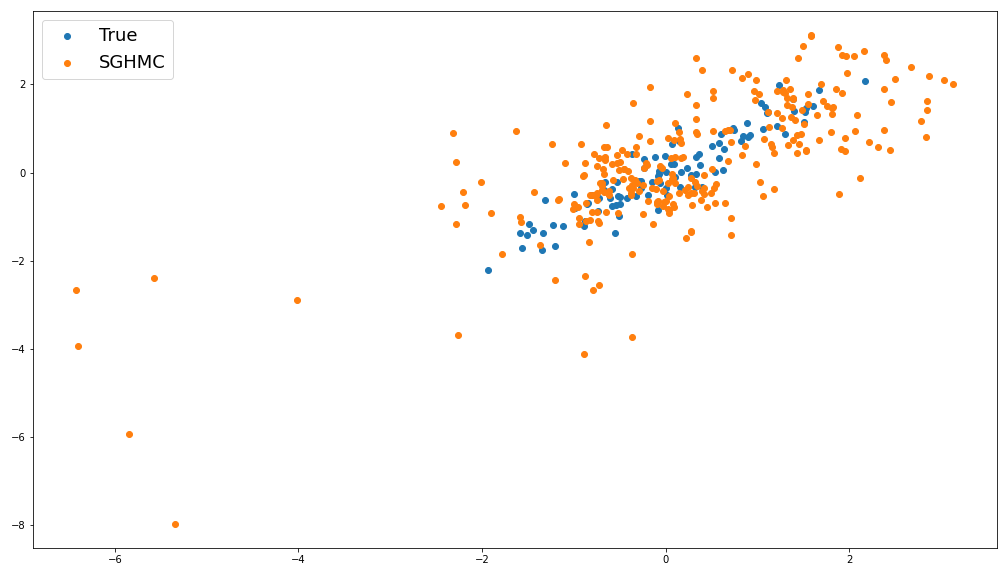
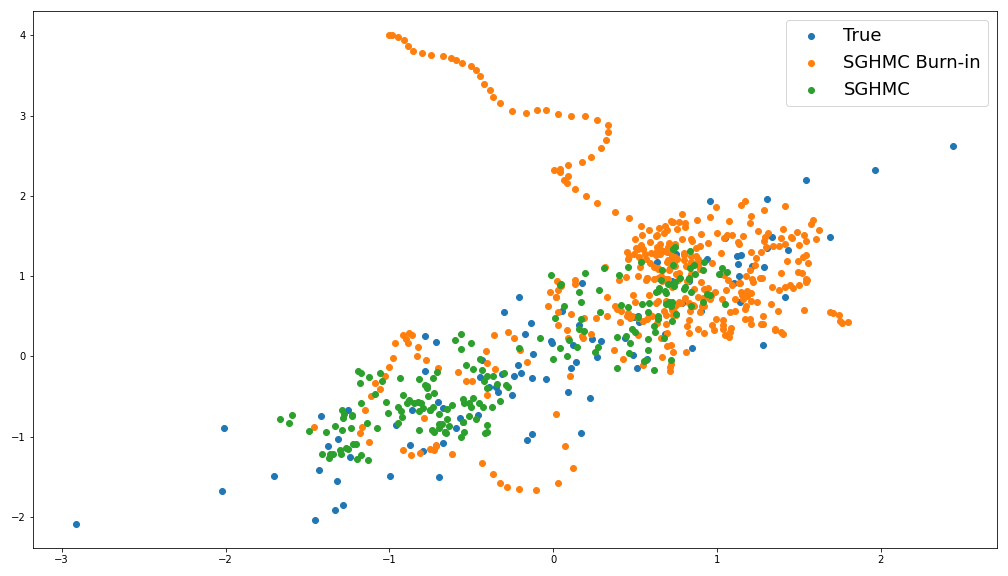
Added adaptive SGHMC

diff --git a/code/adaptive_sghmc.py b/code/adaptive_sghmc.py
@@ -1,0 +1,146 @@
+import tensorflow as tf
+from tensorflow.python.training import training_ops
+
+
+class AdaptiveSGHMC(tf.optimizers.Optimizer):
+    """
+    In this implementation we assume that the scaled gradient noise variance
+    (beta_hat in the original paper) is set to 0.
+    """
+
+    def __init__(self,
+                 learning_rate,
+                 burnin,
+                 data_size=1,
+                 momentum_decay=0.01,
+                 name="AdaptiveSGHMC",
+                 **kwargs):
+
+        with tf.name_scope(name):
+            self._learning_rate = tf.convert_to_tensor(learning_rate, name="learning_rate")
+            self._burnin = tf.convert_to_tensor(burnin, name="burnin", dtype=tf.int64)
+            self._data_size = tf.convert_to_tensor(data_size, name="data_size", dtype=tf.int64)
+            self._momentum_decay = tf.convert_to_tensor(momentum_decay, name="momentum_decay", )
+
+            self._friction = tf.Variable(0., name="friction")
+
+            super().__init__(name=name, **kwargs)
+
+    def get_config(self):
+        pass
+
+    def _create_slots(self, var_list):
+        for var in var_list:
+            self.add_slot(var, "momentum")
+
+            # V_hat
+            self.add_slot(var, "squared_grad_magnitude", initializer="ones")
+
+            # g
+            self.add_slot(var, "smoothed_gradient", initializer="ones")
+
+            # tau
+            self.add_slot(var, "exponential_average_coeff", initializer="ones")
+
+    def _resource_apply_dense(self, grad, var, apply_state=None):
+
+        momentum = self.get_slot(var, "momentum")
+        squared_grad_magnitude = self.get_slot(var, "squared_grad_magnitude")
+        smoothed_gradient = self.get_slot(var, "smoothed_gradient")
+        exponential_average_coeff = self.get_slot(var, "exponential_average_coeff")
+
+        return self._sghmc_step(grad=grad,
+                                variable=var,
+                                momentum=momentum,
+                                squared_grad_magnitude=squared_grad_magnitude,
+                                smoothed_gradient=smoothed_gradient,
+                                exponential_average_coeff=exponential_average_coeff)
+
+    def _resource_apply_sparse(self, grad, var, indices, apply_state=None):
+
+        momentum = self.get_slot(var, "momentum")
+        squared_grad_magnitude = self.get_slot(var, "squared_grad_magnitude")
+        smoothed_gradient = self.get_slot(var, "smoothed_gradient")
+        exponential_average_coeff = self.get_slot(var, "exponential_average_coeff")
+
+        return self._sghmc_step(grad=grad,
+                                variable=var,
+                                momentum=momentum,
+                                squared_grad_magnitude=squared_grad_magnitude,
+                                smoothed_gradient=smoothed_gradient,
+                                exponential_average_coeff=exponential_average_coeff,
+                                indices=indices)
+
+    def _sghmc_step(self,
+                    grad,
+                    variable,
+                    momentum,
+                    squared_grad_magnitude,
+                    smoothed_gradient,
+                    exponential_average_coeff,
+                    epsilon=1e-16,
+                    indices=None):
+
+        # Scale the gradient according to the data size
+        scaled_grad = grad * tf.cast(self._data_size, grad.dtype)
+
+        # If we are still in the burn-in phase, adapt:
+        # the preconditioner,
+        # the the exponentail averaging coefficient
+        # the gradient noise
+        burnin_update_ops = []
+        if int(self.iterations) < self._burnin:
+
+            ea_coeff_inv = 1. / (exponential_average_coeff + 1.)
+
+            # Tau delta
+            delta_ea_coeff = tf.square(smoothed_gradient) / (squared_grad_magnitude + epsilon)
+            delta_ea_coeff = -exponential_average_coeff * delta_ea_coeff + 1.
+
+            # g delta
+            delta_smoothed_gradient = ea_coeff_inv * (-smoothed_gradient + scaled_grad)
+
+            # Preconditioner (V_theta) delta
+            delta_squared_grad_magnitude = ea_coeff_inv * (-squared_grad_magnitude + tf.square(scaled_grad))
+
+            burnin_update_ops = [
+                exponential_average_coeff.assign_add(delta_ea_coeff).op,
+                smoothed_gradient.assign_add(delta_smoothed_gradient).op,
+                squared_grad_magnitude.assign_add(delta_squared_grad_magnitude).op
+            ]
+
+        with tf.control_dependencies(burnin_update_ops):
+
+            grad_magnitude = tf.sqrt(squared_grad_magnitude)
+
+            preconditioner = 1. / (grad_magnitude + epsilon)
+
+            # Note the assumption that momentum_decay = learning_rate * precondtioner^-1 * C
+            noise_variance = 2. * preconditioner * self._momentum_decay - self._learning_rate ** 2
+            noise_stddev = self._learning_rate * tf.sqrt(tf.maximum(noise_variance, 1e-16))
+
+            momentum_noise = tf.random.normal(shape=scaled_grad.shape, dtype=scaled_grad.dtype)
+            momentum_noise = noise_stddev * momentum_noise
+
+            momentum_delta = -self._momentum_decay * momentum + \
+                             self._learning_rate ** 2 * preconditioner * scaled_grad + \
+                             momentum_noise
+
+            new_variable = variable + momentum
+            new_momentum = momentum + momentum_delta
+
+            # Dense moment update
+            if indices is None:
+                # Note the minus sign on the delta argument. This is because we wish to perform gradient ascent.
+                update_ops = [
+                    variable.assign(new_variable).op,
+                    momentum.assign(new_momentum).op
+                ]
+
+            else:
+                update_ops = [
+                    self._resource_scatter_update(variable, indices, new_variable),
+                    self._resource_scatter_update(momentum, indices, new_momentum)
+                ]
+
+            return tf.group(update_ops)
